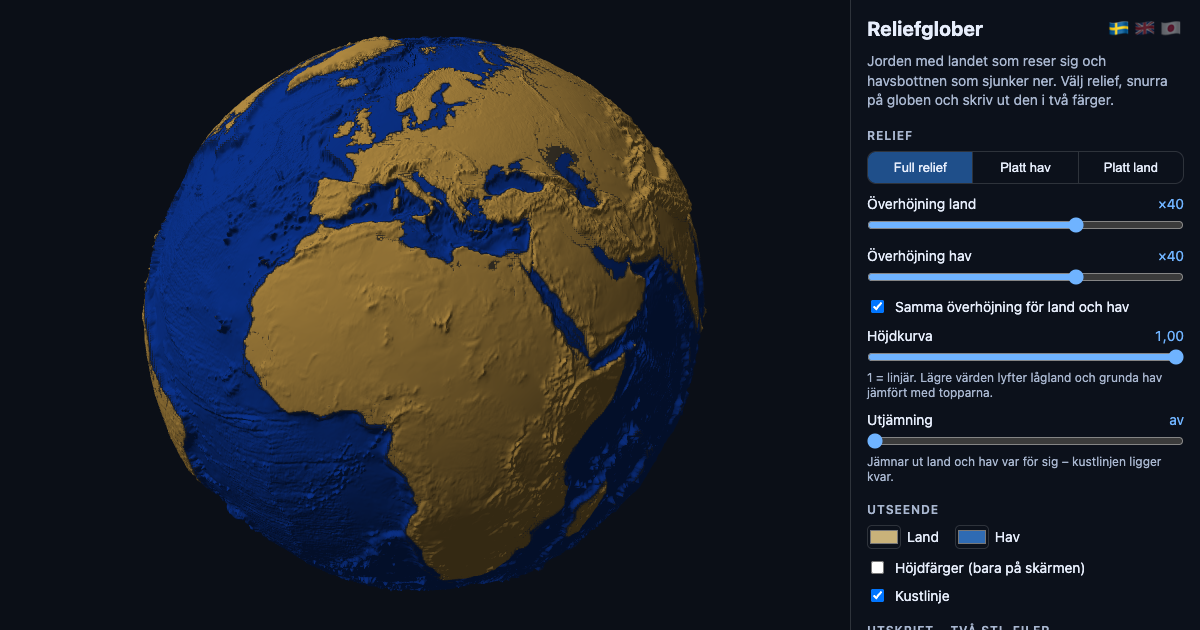
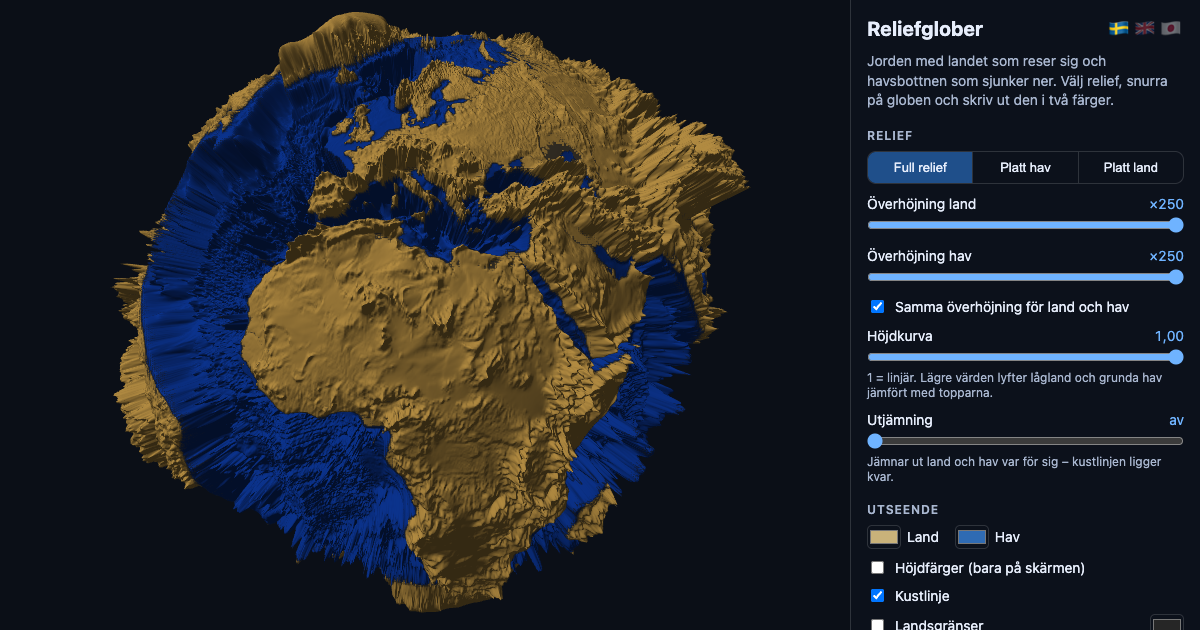
Standard: full överhöjning (×250) för land och hav, ny förhandsbild

diff --git a/web/app.js b/web/app.js
@@ -139,7 +139,7 @@ document.querySelectorAll('#sprak button').forEach(b => b.addEventListener('clic
 // ---------------------------------------------------------------- inställningar
 const INSTNYCKEL = 'relief_inst';
 const STD = {
-  lage: 'full', kLand: 40, kHav: 40, lank: true, gamma: 1, jamn: 0,
+  lage: 'full', kLand: 250, kHav: 250, lank: true, gamma: 1, jamn: 0,
   fLand: '#c9b27a', fHav: '#2f6bb3', hojdfarg: false, kust: true,
   diameter: 120, upp: 0.5, landDjup: 2, dela: true, halD: 5, halDjup: 8,
   granser: false, fGrans: '#262626', gransStl: false, gransBredd: 0.8, gransHojd: 0.5,
